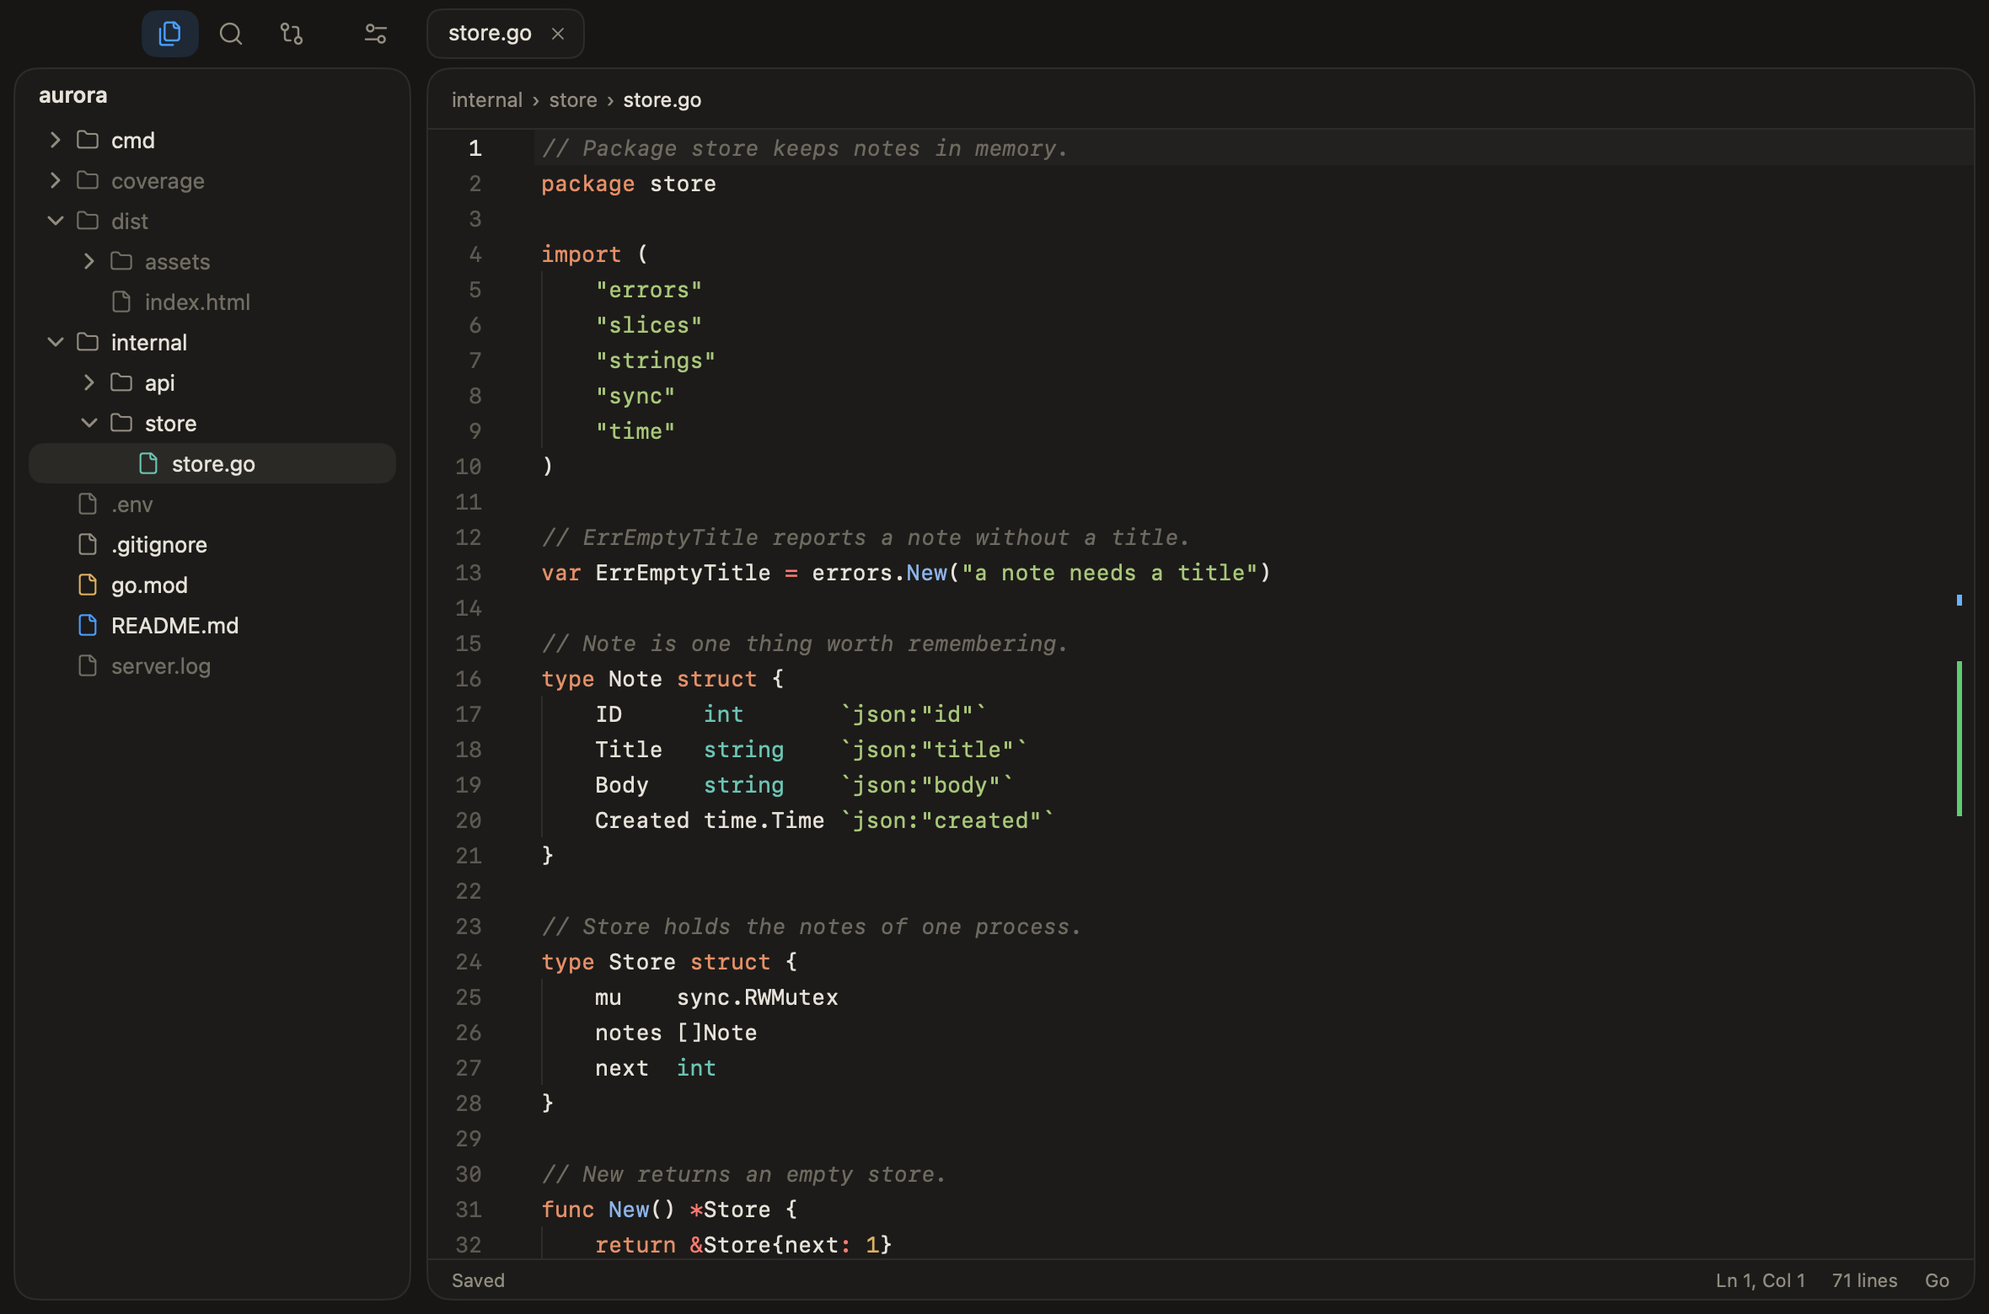
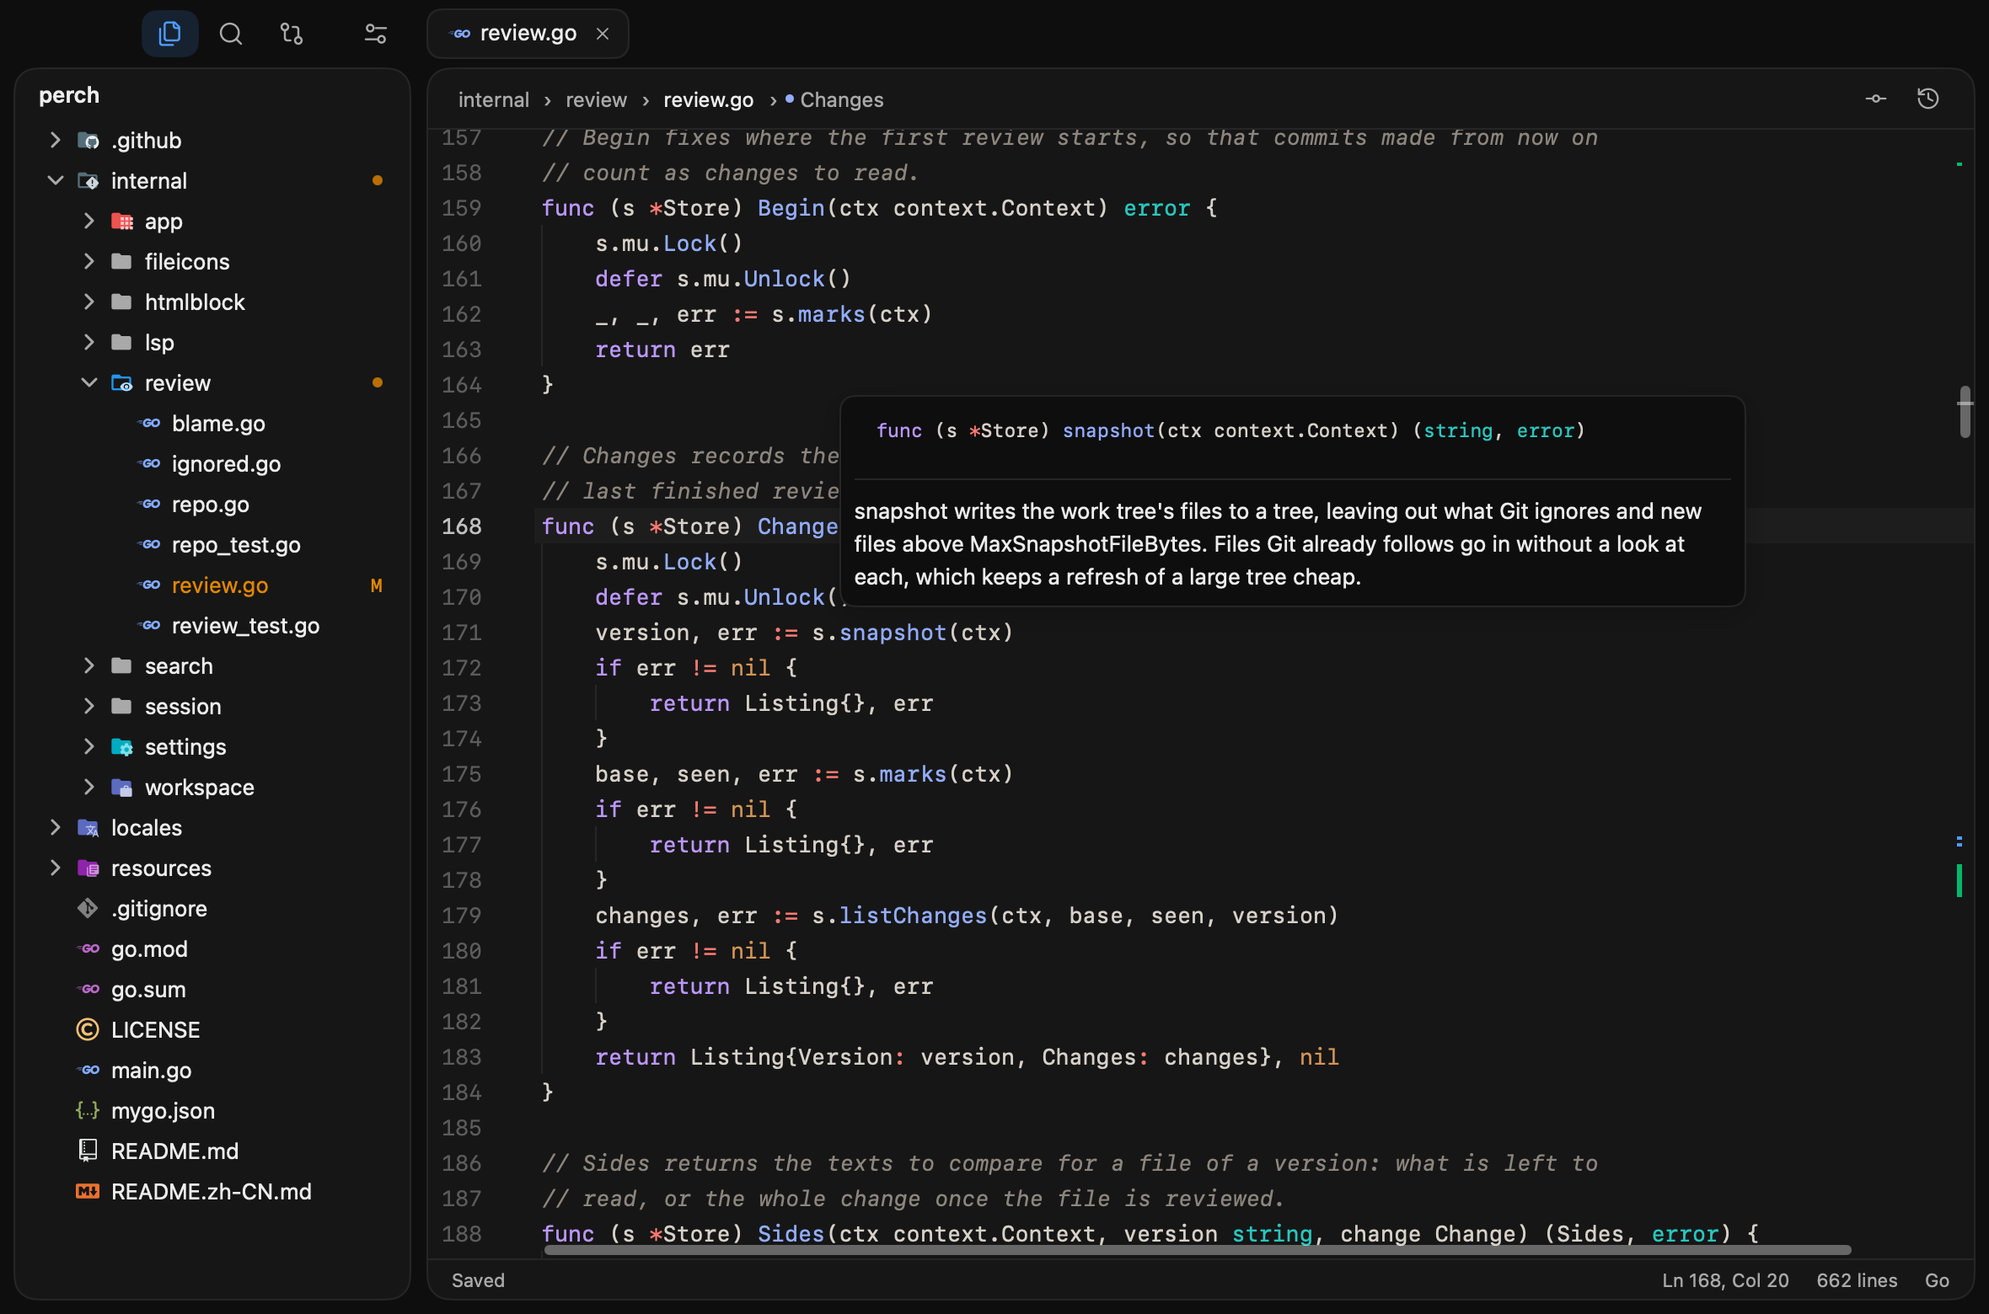
Rewrite the README for an open source release
Lead with why Perch exists and how to install the ad hoc signed app, give
reviewing its own section and screenshot, say what Perch does not do, and
replace the screenshots with the current interface in light and dark.

diff --git a/README.zh-CN.md b/README.zh-CN.md
@@ -5,7 +5,7 @@
 <h1 align="center">Perch</h1>
 
 <p align="center">
-  在 agent 写代码时，安静地读代码。
+  agent 写代码的时候，一个安静读代码的地方。
 </p>
 
 <p align="center">
@@ -15,41 +15,59 @@
 <p align="center">
   <picture>
     <source media="(prefers-color-scheme: dark)" srcset=".github/screenshots/perch-dark.png">
-    <img src=".github/screenshots/perch-light.png" width="880" alt="Perch 正在显示一个 Go 文件，文件树中被 Git 忽略的文件已置灰">
+    <img src=".github/screenshots/perch-light.png" width="880" alt="Perch 正在阅读一个 Go 文件，鼠标所指的符号由语言服务给出说明">
   </picture>
 </p>
 
-Perch 是一个轻量的原生代码查看器和轻量编辑器。当大部分代码由 agent 来写，你仍然需要一个地方看清改了什么、仔细读一读、顺手改一行，而不必打开完整的 IDE。
+当大部分代码由 agent 来写，你仍然需要一个地方看清改了什么、仔细读一读、顺手改一行。IDE 对这件事来说太重了。Perch 是一个原生的代码查看器，带轻量编辑，只做这一件事。
 
-Perch 使用 Go 和 [MyGo](https://github.com/egoist/mygo) 构建，界面通过 Metal 原生绘制，没有 WebView。
+- **轻。** 打开一个文件时，空闲内存约 50 MB。界面通过 Metal 原生绘制，没有 WebView；语言服务只在需要时才启动。
+- **为阅读 agent 的改动而做。** Perch 记得你读到了哪里，agent 提交之后进度也不会丢。
+- **和 agent 一起用也安全。** 它不会动你的 Git 暂存区、`HEAD` 和分支；agent 刚改写了你正在编辑的文件时，它会先问你保留哪个版本。
 
-## 功能
+Perch 使用 Go 和 [MyGo](https://github.com/egoist/mygo) 构建。
 
-- **审阅改动：** Perch 记得你读到了哪里，agent 提交之后也不会丢。它列出还没读的文件，显示差异，并在行号旁实时标出未读的行。它不会动你的暂存区、`HEAD` 和分支。
-- **查看 Git 历史：** 可以把工作区和上次审阅、`HEAD` 或其他分支对比。可以浏览提交历史，打开任意一次提交看改动。文件树会标出改过的文件。每个文件都能查看它的历史，鼠标停在某一行上，会显示这一行最后是谁改的。
-- **舒服地阅读：** 语法高亮、渲染 Markdown（包括 README 里的 HTML），以及 PNG、JPEG、GIF、WebP 和 SVG 预览。
-- **安全地编辑：** agent 改写了你正在编辑的文件时，Perch 会询问保留哪个版本，不会覆盖任何一方。
-- **快速定位：** 快速打开、项目搜索、查找替换，以及通过语言服务跳转定义、查找引用和列出当前文件的符号。项目搜索会为每个项目保留最近的查询及其选项，最多八条。语言服务运行后，鼠标停在名字上会显示它的类型和文档。路径栏会显示光标所在的 Markdown 标题，或在语言服务已运行时显示代码符号。选择其中一项即可跳转。
-- **管理文件：** 在文件树里新建、重命名、移到废纸篓。将鼠标移到项目名称上或按 Tab 聚焦工具栏按钮，也可以通过 **视图 → 全部折叠** 收起文件树。重命名后，打开的标签页会跟着更新，未保存的修改也会保留。被 Git 忽略的文件会置灰显示。
-- **接着上次继续：** 每个项目重新打开时恢复标签页、光标、滚动位置和布局，不同项目在各自的窗口中打开。
-- **保持轻量：** 语言服务只在需要时启动，闲置后自动退出。在 macOS 上空闲内存约 52 MB。
-- **支持英文和简体中文**，以及浅色和深色外观。
+## 安装
 
-## 从源码构建
+从 [Releases](https://github.com/marukolibro/Perch/releases) 下载 `.dmg`，把 Perch 拖进“应用程序”。支持 macOS 12 及以上，Apple 芯片和 Intel 都可以。
 
-需要 Go 1.27.4 或更高版本，审阅功能需要 Git。支持 macOS、Windows 和 Linux。目前在 Apple 芯片的 macOS 上开发和测试；Windows 和 Linux 版本能编译、测试能通过，但还没有在这两个系统上实际运行过。
+Perch 使用临时签名，没有经过 Apple 公证，所以第一次打开时 macOS 会拦截。先打开一次，然后到 **系统设置 → 隐私与安全性** 里点 **仍要打开**。也可以在终端里清除隔离标记：
 
 ```sh
-go tool mygo build
-open build/darwin-arm64/Perch.app
+xattr -dr com.apple.quarantine /Applications/Perch.app
 ```
 
-运行检查：
+## 审阅改动
 
-```sh
-go test ./...
-golangci-lint run
-```
+<p align="center">
+  <picture>
+    <source media="(prefers-color-scheme: dark)" srcset=".github/screenshots/review-dark.png">
+    <img src=".github/screenshots/review-light.png" width="880" alt="Git 页列出一个改动的文件并显示它的差异">
+  </picture>
+</p>
+
+- **从上次读到的地方接着读。** Git 页列出上次审阅以来改过的文件，只显示你还没读过的部分。改名的文件算作一个改动。标为已审的文件会一直保持已审，直到它再次被修改。
+- **和任何版本对比。** 可以在上次审阅、未提交的改动和其他分支之间切换。
+- **查看历史。** 浏览提交历史，打开任意一次提交看改动。文件树会标出改过的文件。每个文件都有自己的历史，鼠标停在某一行上，会显示这一行最后是谁改的。
+- **编辑器里标出未读的行。** 读文件时，还没审阅的行会在行号旁标出来，并随着写入实时更新。
+
+审阅记录以 Git 树的形式保存在 `refs/perch/` 下，不占用工作区，提交、变基和重启之后都还在。
+
+## 阅读和定位
+
+- 语法高亮、渲染 Markdown（包括 README 里的 HTML），以及 PNG、JPEG、GIF、WebP 和 SVG 预览。
+- 快速打开（`⌘P`，也支持 `文件:行号`）、带最近查询的项目搜索、查找替换。
+- 通过语言服务：跳转定义、查找引用、当前文件或整个项目的符号、鼠标所指名字的类型和文档，以及路径栏里的符号路径。
+- 每个项目重新打开时恢复标签页、光标、滚动位置和布局，并在各自的窗口中打开。
+- 支持英文和简体中文，浅色和深色外观。
+
+## 轻量编辑
+
+Perch 可以编辑文本，支持撤销和查找替换，也可以在文件树里新建、重命名、移到废纸篓。重命名后，打开的标签页会跟着更新，未保存的修改也会保留。你编辑文件时如果 agent 改写了它，Perch 会询问保留哪个版本，不会覆盖任何一方。
+
+## Perch 不做什么
+
+Perch 有意保持小巧：没有插件系统、终端、AI 聊天、调试器和重构工具。它也不和 agent 对接：它只负责把改动显示出来，读什么由你决定。
 
 ## 快捷键
 
@@ -57,20 +75,20 @@ golangci-lint run
 
 | 操作 | 快捷键 |
 | --- | --- |
-| 跳转到文件，或 `文件:行号` | `⌘P` |
+| 打开文件，或跳到 `文件:行号` | `⌘P` |
 | 在文件中查找 | `⌘F` |
-| 查找和替换 | `⌥⌘F` |
+| 查找替换 | `⌥⌘F` |
 | 搜索项目 | `⇧⌘F` |
-| 跳转到文件中的符号 | `⇧⌘O` |
-| 在项目中查找符号 | `⌘T` |
-| 跳转到定义 | `F12` 或按住 `⌘` 点击 |
+| 跳到文件中的符号 | `⇧⌘O` |
+| 跳到项目中的符号 | `⌘T` |
+| 跳转定义 | `F12` 或按住 `⌘` 点击 |
 | 查找引用 | `⇧F12` |
 | 后退 / 前进 | `⌃-` / `⌃⇧-` |
 | 下一个 / 上一个标签页 | `⌃Tab` 或 `⇧⌘]` / `⌃⇧Tab` 或 `⇧⌘[` |
-| 第 1 到 8 个 / 最后一个标签页 | `⌘1` 到 `⌘8` / `⌘9` |
+| 第 1 到 8 个标签页 / 最后一个 | `⌘1` 到 `⌘8` / `⌘9` |
 | 切换 Markdown 预览 | `⇧⌘V` |
 | 显示改动 | `⇧⌘R` |
-| 标记文件已审阅 | `⌘↩` |
+| 标为已审 | `⌘↩` |
 | 下一处 / 上一处改动 | `⌥F5` / `⌥⇧F5` |
 | 保存 / 关闭标签页 | `⌘S` / `⌘W` |
 | 新建窗口 / 打开文件夹 | `⇧⌘N` / `⌘O` |
@@ -78,9 +96,9 @@ golangci-lint run
 
 ## 语言服务
 
-跳转定义支持任何遵循 Language Server Protocol 的语言服务，Perch 内置了 22 种语言。在 **设置 → 代码导航 → 语言服务** 里可以查看安装状态、开关语言、复制安装命令。
+Perch 内置支持 22 种语言，也可以使用任何支持 Language Server Protocol 的服务。打开 **设置 → 语言服务**，可以查看哪些服务已安装、开关某种语言，以及复制安装命令。
 
-要添加其他语言，在该页面选择 **打开配置文件**，然后加入一段配置：
+要添加其他语言，在该页面选择 **打开配置文件**，加入一项：
 
 ```json
 {
@@ -97,7 +115,22 @@ golangci-lint run
 }
 ```
 
-`command` 必须是 `PATH` 中的程序名或绝对路径。Perch 只从你自己的设置目录读取这个文件，不会运行所打开项目指定的命令。
+`command` 必须是 `PATH` 中的程序名或绝对路径。Perch 只从你自己的设置目录读取这个文件，不会运行打开的项目指定的命令。
+
+## 从源码构建
+
+需要 Go 1.27.4 或更高版本，审阅功能需要 Git。
+
+```sh
+git clone https://github.com/marukolibro/Perch.git
+cd Perch
+go tool mygo build
+open build/darwin-arm64/Perch.app
+```
+
+运行 `go test ./...` 和 `golangci-lint run` 做检查。
+
+Perch 在 macOS 上开发和测试。Windows 和 Linux 版本能编译、测试也能通过，但还没有在这两个系统上实际用过，欢迎反馈。
 
 ## 许可证
 

diff --git a/README.md b/README.md
@@ -15,41 +15,59 @@
 <p align="center">
   <picture>
     <source media="(prefers-color-scheme: dark)" srcset=".github/screenshots/perch-dark.png">
-    <img src=".github/screenshots/perch-light.png" width="880" alt="Perch showing a Go file, with files ignored by Git dimmed in the file tree">
+    <img src=".github/screenshots/perch-light.png" width="880" alt="Perch reading a Go file, with the symbol under the pointer explained by its language server">
   </picture>
 </p>
 
-Perch is a lightweight native code viewer and light editor. When agents write most of the code, you still need somewhere to see what changed, read it closely and fix a line by hand, without opening a full IDE.
+When agents write most of the code, you still need a place to see what changed, read it closely and fix a line by hand. An IDE is more than that job needs. Perch is a native code viewer with light editing, and it does only that job.
 
-It is built in Go with [MyGo](https://github.com/egoist/mygo). The interface is drawn natively with Metal, with no webview.
+- **Light.** About 50 MB of memory when idle with a file open. The interface is drawn natively with Metal, with no webview, and language servers start only when you need them.
+- **Made for reading agents' work.** Perch remembers how far you have read, and your progress survives an agent's commits.
+- **Safe beside an agent.** It never touches your Git index, `HEAD` or branches, and it asks before overwriting a file an agent has just rewritten.
 
-## Features
+Perch is built in Go with [MyGo](https://github.com/egoist/mygo).
 
-- **Review what changed.** Perch remembers how far you have read, even after an agent commits. It lists the files left to read, shows their diffs, and marks unread lines beside the line numbers as they are written. It never touches your index, `HEAD` or branches.
-- **See the Git history.** Compare the work tree with your last review, with `HEAD` or with another branch. Browse the history and open any commit's changes. The file tree marks changed files, and each file has its history and shows who last changed the line under the pointer.
-- **Read comfortably.** Syntax highlighting, rendered Markdown including the HTML in READMEs, and previews of PNG, JPEG, GIF, WebP and SVG.
-- **Edit safely.** If an agent rewrites a file you are editing, Perch asks which version to keep instead of overwriting either one.
-- **Find your way.** Quick open, project search, find and replace, plus go to definition, find references and a symbol list for the current file through language servers. Project search remembers up to eight recent queries and their options per project. Resting the pointer on a name shows its type and documentation once the language server is running. The path bar shows Markdown headings around the caret, or code symbols when the language server is already running. Choose one to jump to it.
-- **Manage files.** Create, rename and move files to the Trash from the file tree. Hover over the project name or press Tab to reach the tree toolbar, or use **View → Collapse All** to fold the tree. Open tabs follow a rename and keep their unsaved edits, and files Git ignores are dimmed.
-- **Pick up where you left off.** Each project reopens with its tabs, caret, scroll position and layout, and each project gets its own window.
-- **Stay light.** Language servers start only when needed and exit when idle. Perch idles at about 52 MB on macOS.
-- **English and Simplified Chinese**, with light and dark appearances.
+## Install
 
-## Build from source
+Download the `.dmg` from [Releases](https://github.com/marukolibro/Perch/releases) and drag Perch to Applications. It runs on macOS 12 or later, on Apple silicon and Intel.
 
-Perch needs Go 1.27.4 or later. Git is needed for the review features. It runs on macOS, Windows and Linux. It is developed and tested on macOS on Apple silicon; the Windows and Linux builds are compiled and pass the tests, but have not been tried on those systems yet.
+Perch is signed ad hoc, not notarized by Apple, so macOS blocks it the first time. Open it once, then go to **System Settings → Privacy & Security** and choose **Open Anyway**. Or clear the quarantine flag in a terminal:
 
 ```sh
-go tool mygo build
-open build/darwin-arm64/Perch.app
+xattr -dr com.apple.quarantine /Applications/Perch.app
 ```
 
-Run the checks with:
+## Review what changed
 
-```sh
-go test ./...
-golangci-lint run
-```
+<p align="center">
+  <picture>
+    <source media="(prefers-color-scheme: dark)" srcset=".github/screenshots/review-dark.png">
+    <img src=".github/screenshots/review-light.png" width="880" alt="The Git page listing a changed file and showing its diff">
+  </picture>
+</p>
+
+- **Read up to where you stopped.** The Git page lists the files changed since your last review and shows only what you have not read yet. A renamed file shows as one change. Mark a file reviewed and it stays reviewed until it changes again.
+- **Compare with anything.** Switch between your last review, uncommitted changes and another branch.
+- **See the history.** Browse commits and open any commit's changes. The file tree marks changed files. Each file has its own history, and resting the pointer on a line shows who last changed it.
+- **Unread lines in the editor.** While you read a file, the lines you have not reviewed are marked beside the line numbers as they are written.
+
+Reviews are kept as Git trees under `refs/perch/`, so they cost nothing in your working tree and survive commits, rebases and restarts.
+
+## Read and find your way
+
+- Syntax highlighting, rendered Markdown including the HTML in READMEs, and previews of PNG, JPEG, GIF, WebP and SVG.
+- Quick open (`⌘P`, also `file:line`), project search with recent queries, and find and replace.
+- Through language servers: go to definition, find references, symbols in the file or the project, the type and documentation of the name under the pointer, and the path bar's symbol path.
+- Each project reopens with its tabs, caret, scroll position and layout, in its own window.
+- English and Simplified Chinese, light and dark.
+
+## Edit lightly
+
+Perch edits text with undo, find and replace, and file operations in the tree: create, rename, move to the Trash. Open tabs follow a rename and keep their unsaved edits. If an agent rewrites a file while you edit it, Perch asks which version to keep instead of overwriting either one.
+
+## What Perch does not do
+
+Perch stays small on purpose. It has no plugin system, terminal, AI chat, debugger or refactoring tools. It does not talk to agents either: it shows what changed, and you decide what to read.
 
 ## Keyboard shortcuts
 
@@ -78,7 +96,7 @@ On Windows and Linux, `⌘` is `Ctrl`, `⌥` is `Alt` and `⌃` is `Ctrl`.
 
 ## Language servers
 
-Go to definition works with any server that speaks the Language Server Protocol. Perch knows 22 languages out of the box. Open **Settings → Code Navigation → Language servers** to see which servers are installed, turn languages on or off, and copy install commands.
+Perch knows 22 languages out of the box and works with any server that speaks the Language Server Protocol. Open **Settings → Language servers** to see which servers are installed, turn languages on or off, and copy install commands.
 
 To add another language, choose **Open Configuration File** on that page and add an entry:
 
@@ -98,6 +116,21 @@ To add another language, choose **Open Configuration File** on that page and add
 ```
 
 `command` must be a program name on your `PATH` or an absolute path. Perch reads this file only from your own settings folder and never runs a command named by an opened project.
+
+## Build from source
+
+You need Go 1.27.4 or later, and Git for the review features.
+
+```sh
+git clone https://github.com/marukolibro/Perch.git
+cd Perch
+go tool mygo build
+open build/darwin-arm64/Perch.app
+```
+
+Run the checks with `go test ./...` and `golangci-lint run`.
+
+Perch is developed and tested on macOS. The Windows and Linux builds compile and pass the tests, but have not been tried on those systems yet. Reports from either are welcome.
 
 ## License
 
